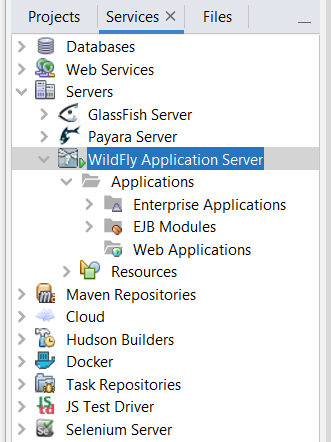
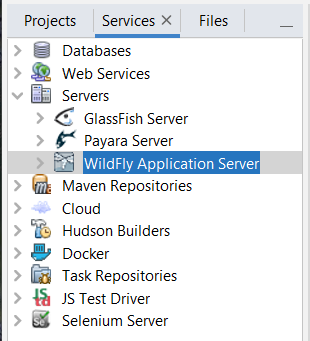
improve docs of running on WildFly in NetBeans IDE.

diff --git a/docs/03run-wildfly-nb.md b/docs/03run-wildfly-nb.md
@@ -7,10 +7,10 @@ NetBeans has built-in support for Glassfish.
 ## Install WildFly Application Server plugin
 
 1. Download [WildFly Application Server plugin](http://plugins.netbeans.org/plugin/76472/wildfly-application-server) from NetBeans Plugins portal.
-2. Opens *Pluigns* dialog from main menu *Tools*->*Plugins*.
-3. Switch to *Downloaded* tab, and click *Add* button to select the downloaded plugin(a .nbm file).
+2. Open *Plugins* dialog from NetBeans main menu *Tools*->*Plugins*.
+3. Switch to *Downloaded* tab, and click *Add Plugins...* button to select the downloaded plugin(a .nbm file).
 4. When it is added, click *Install* button to start installation.
-5. Follow the guide of the installation wizard, and restart NetBeans IDE to apply the change.
+5. Follow the wizard to complete the installation. When it is done,  restart NetBeans IDE to apply the change.
 
 ## Add a WildFly Server instance
 
@@ -39,41 +39,69 @@ Right click the *WildFly Application Server* node, there is a few actions availa
 
 ## Start and Stop WildFly Server
 
-Let's start the WildFly server by click *Start* in the context menu.  Wait for seconds, you will see the *Output* screen similar to the following.
+Let's start the WildFly server by clicking *Start* in the context menu.  Wait for seconds, you will see the *Output* screen similar to the following.
 
 <img src="./nb-wildfly-run.png" style="zoom:80%;" />
 
-To stop the running WildFly Server,  click *Stop* in the context menu of the existed WildFly Server node. Or jus click the *stop* button the *Notifications* windows.
+To stop the running WildFly Server,  click *Stop* in the context menu of the existed WildFly Server node. Or jus click the *stop* button the *Output - Wildfly Application Server* window.
 
 ## Deploy and undeploy applications
 
-## [TODO] the is no WildFly option in the Server list.
+Generally, like what we have done with Glassfish and Payara servers,  we can simply deploy and run a Jakarta Web application by simply clicking *Run* in the project context menu. But when I try to run the application on Wildfly server, there is no such a Wildfly option in the dropdown list in the popup **Select deployment server**. It should be a bug.
 
-Switch to  *Project* view, right click the project node, and select *Run* in the context menu.
+![Select deployment server](./nb-project-run-wildfly.png)
 
-In the  *Select deployment server* dialog, select *WildFly Application Server* we have created in the dropdown menu.
 
-<img src="./run-nb.png" alt=" Select deployment server" style="zoom:80%;" />
+
+To select WildFly server, let's switch to  *Project* view, right click the project node, and select *Properties* in the context menu.
+
+In the project properties window, select *Run* in the left navigation tree,  and in the right panel, select *Wildfly Application Server*  in the **Server** dropdown list.
+
+![project properties](./nb-project-properties-wildfly-run.png)
 
 Click *OK* button. It will try to build the project and deploy the application package into the NetBeans managed WildFly server.   
 
-After it is deployed successfully, there is a success message similar with the following in the *Output* window.
+After it is deployed successfully, there is a success message similar with the following in the *Run* tab of the *Output* window.
 
 ```bash
 ------------------------------------------------------------------------
-Deploying on WildFlyServer
+Deploying on WildFly Application Server
     profile mode: false
     debug mode: false
     force redeploy: true
-In-place deployment at D:\hantsylabs\jakartaee8-starter\target\jakartaee8-starter
+Starting WildFly Application Server
+WildFly Application Server Started
+Initial deploying jakartaee8-starter to D:\appsvr\wildfly-18.0.1.Final\standalone\deployments\jakartaee8-starter.war
+Completed initial distribution of jakartaee8-starter
+Deploying D:\appsvr\wildfly-18.0.1.Final\standalone\deployments\jakartaee8-starter.war
+Application Deployed
 
 ```
 
-Let's switch to *Server* view, there several nodes are displayed under WildFly Application Server. Expand the *Application* node, you will see there is a new node *jakartaee8-starter* there.
+Switch to *WildFly Application Server* console tab, you will see the following messages instead.
 
-[TODO: insert the deployed application]
+```bash
+20:50:59,798 INFO  [org.jboss.as] (Controller Boot Thread) WFLYSRV0051: Admin console listening on http://127.0.0.1:9990
+20:50:59,798 INFO  [org.jboss.as] (Controller Boot Thread) WFLYSRV0025: WildFly Full 18.0.1.Final (WildFly Core 10.0.3.Final) started in 13378ms - Started 355 of 618 services (385 services are lazy, passive or on-demand)
+20:51:06,232 INFO  [org.jboss.as.server.deployment.scanner] (DeploymentScanner-threads - 2) WFLYDS0004: Found jakartaee8-starter.war in deployment directory. To trigger deployment create a file called jakartaee8-starter.war.dodeploy
+20:51:06,284 INFO  [org.jboss.as.server.deployment] (MSC service thread 1-2) WFLYSRV0027: Starting deployment of "jakartaee8-starter.war" (runtime-name: "jakartaee8-starter.war")
+20:51:08,994 INFO  [org.jboss.weld.deployer] (MSC service thread 1-7) WFLYWELD0003: Processing weld deployment jakartaee8-starter.war
+20:51:09,956 INFO  [org.hibernate.validator.internal.util.Version] (MSC service thread 1-7) HV000001: Hibernate Validator 6.0.18.Final
+20:51:10,670 INFO  [org.jboss.weld.Version] (MSC service thread 1-3) WELD-000900: 3.1.2 (Final)
+20:51:10,797 INFO  [org.infinispan.factories.GlobalComponentRegistry] (MSC service thread 1-5) ISPN000128: Infinispan version: Infinispan 'Infinity Minus ONE +2' 9.4.16.Final
+20:51:11,494 INFO  [io.smallrye.metrics] (MSC service thread 1-4) MicroProfile: Metrics activated
+20:51:11,688 INFO  [org.jboss.as.clustering.infinispan] (ServerService Thread Pool -- 40) WFLYCLINF0002: Started client-mappings cache from ejb container
+20:51:13,027 INFO  [org.jboss.resteasy.resteasy_jaxrs.i18n] (ServerService Thread Pool -- 40) RESTEASY002225: Deploying javax.ws.rs.core.Application: class com.example.JaxrsActivator
+20:51:13,197 INFO  [org.wildfly.extension.undertow] (ServerService Thread Pool -- 40) WFLYUT0021: Registered web context: '/jakartaee8-starter' for server 'default-server'
+20:51:13,312 INFO  [org.jboss.as.server] (DeploymentScanner-threads - 1) WFLYSRV0010: Deployed "jakartaee8-starter.war" (runtime-name : "jakartaee8-starter.war")
 
-Currently the sample application just includes a simple RESTful APIs which serves at  the */api/greeting* endpoint. 
+```
+
+
+
+Let's open the *Server* view, there several nodes are displayed under WildFly Application Server. Expand the *Application*/*Web Applications* node, you will see there is a new node *jakartaee8-starter* there.
+
+![deployed apps](./nb-server-view-wildfly-run.png)
 
 Open  your terminal and use `curl` to verify the APIs.
 
@@ -82,5 +110,5 @@ curl http://localhost:8080/jakartaee8-starter/api/greeting/hantsy
 {"message":"Say Hello to hantsy at 2019-11-04T16:16:13.509"}
 ```
 
-To  undeploy the application, in the *Service* view, expand Servers/WildFly Application Server/Applications, right click the *jakartaee8-starter* node, click *Undeploy*  to undeploy it from WildFlyserver. 
+To  undeploy the application, in the *Service* view, expand *Servers/WildFly Application Server/Applications/Web Applications*, right click the *jakartaee8-starter* node, click *Undeploy*  to undeploy it from WildFlyserver. 
 
